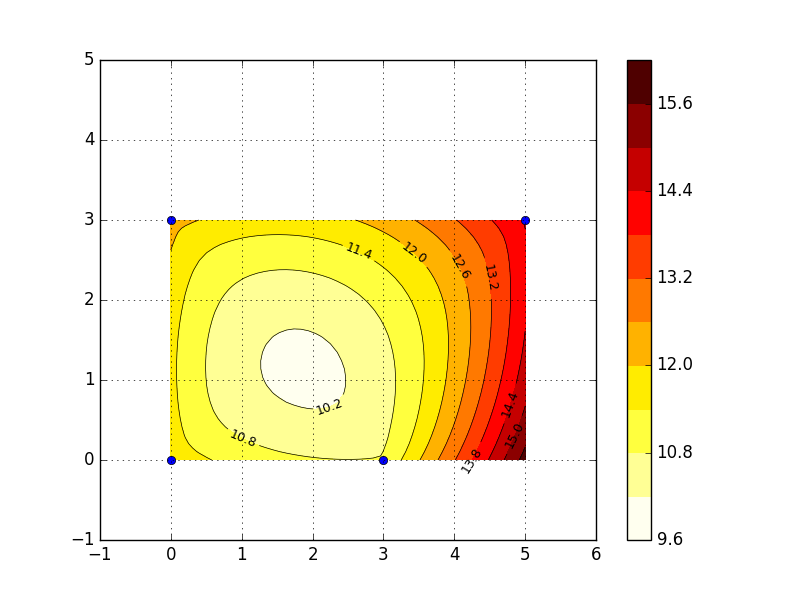
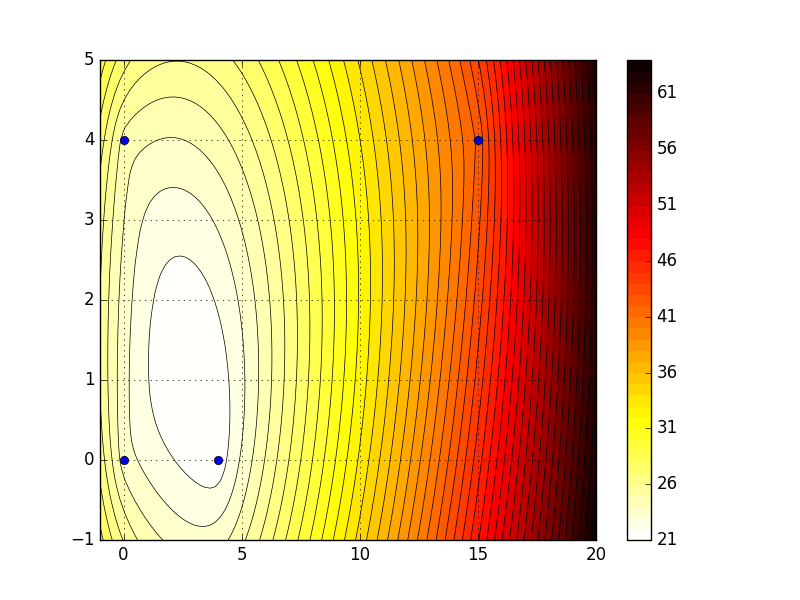
marketing added

diff --git a/comb-algorithms/fermat.py b/comb-algorithms/fermat.py
@@ -2,28 +2,37 @@ import matplotlib.pyplot as plt
 import numpy as np
 from math import hypot
 
-points_arr = [[0, 0], [0, 3], [3, 0], [5, 3]]
+# points_arr = [[2, 3], [2, 5], [3, 2], [3, 4], [4, 8], [8, 2]]
 
 # points_arr = [[-3, 0], [-1, 0], [5, 0], [-8, -9]]
+points_arr = [[0, 0], [0, 4], [4, 0], [15, 4]]
 def dist_s(x, y):
     s = 0
     for p in points_arr:
         s += np.hypot(x - p[0], y - p[1])
     return s
 
+def dist_2(x, y):
+    s = 0
+    for p in points_arr:
+        s += (np.hypot(x - p[0], y - p[1]))
+    return np.tan(s)
 
-n = 50
 
-# xlist = np.linspace(-10, 6, n)
-# ylist = np.linspace(-10, 1, n)
+n = 1000
 
-xlist = np.linspace(0, 5, 50)
-ylist = np.linspace(0, 3, 30)
+xlist = np.linspace(-1, 16, n)
+ylist = np.linspace(-1, 5, n)
+# xlist = np.linspace(-10, 10, n)
+# ylist = np.linspace(-10, 10, n)
+
+# xlist = np.linspace(0, 5, 50)
+# ylist = np.linspace(0, 3, 30)
 
 X, Y = np.meshgrid(xlist, ylist)
 Z = dist_s(X, Y)
 
-cn = 10 # contour accuracy
+cn = 100 # contour accuracy
 
 
 plt.figure()
@@ -31,12 +40,13 @@ plt.grid()
 # plt.xlim([-1, 6])
 # plt.ylim([-1, 5])
 
-plt.xlim([-1, 6])
-plt.ylim([-1, 5])
+# plt.xlim([-1, 6])
+# plt.ylim([-1, 5])
 
 CS = plt.contour(X, Y, Z, cn, linewidths=0.5, colors='k')
-plt.clabel(CS, inline=True, fontsize=9, fmt='%1.1f',)
-CS = plt.contourf(X, Y, Z, cn, cmap=plt.cm.hot_r, vmax=Z.max()*1.05, vmin=Z.min()*0.97) # colors edit
+# plt.clabel(CS, inline=True, fontsize=9, fmt='%1.1f',)
+CS = plt.contourf(X, Y, Z, cn, cmap=plt.cm.hot_r, vmax=Z.max(), vmin=Z.min()) # colors edit
+# CS = plt.contourf(X, Y, Z, cn, cmap=plt.cm.hot_r, vmax=Z.max()*1.05, vmin=Z.min()*0.97) # colors edit
 plt.colorbar()
 # plt.axis('equal')
 

diff --git a/Marketing/marketing-21-Nov-2016.md b/Marketing/marketing-21-Nov-2016.md
@@ -1,0 +1,43 @@
+# Процесс ценообразования
+Основная задача ценовой политики - найти оптимальную цену товара.
+
+1. Цели ценообразования
+  - позиционирование товара на рынке
+  - обеспечение выживаемости
+  - максимизация текущей прибыли
+  - завоевание лидерства по показателям доли рынка. В качестве целевого параметра задается определенная доля рынка. Фирмы верят, что компания, которой принадлежит самая большая доля рынка, будет иметь самые низкие издержки и самую высокую долговременную прибыль. Эта компания идет на максимально возможное снижение цен.
+  - завоевание лидерства по показателям качества товара.
+
+2. Определение спроса на товар
+3. Оценка издержек
+постоянные, переменные
+4. Анализ цен конкурентов
+5. Выбор метода ценообразования
+  - средние издержки + планируемая прибыль
+  - на основе безубыточности
+  - на основе ощущаемой ценности/полезности товара
+  - на основе цен конкурентов
+
+# Cтратегии ценообразования
+1. стратегия снятия сливок (очень высокие сливки). Нужно юзать
+  - когда сущ. высокий спрос на товар.
+  - Если фирма престижная, известная.
+  - Высокая цена соответствует высокому качеству
+2. Установление низких цен на товар. Юзать, если
+  - низкая цена расширяет рынок сбыта
+  - при росте объемов производства издержки снижаются
+  - если низкая цена отпугивает конкурентов
+3. Ценообразование в рамках товарного ассортимента. Восстанавливаются разные дифференцируемые цены на разные модели
+4. Ценообразование по географич. признаку. Предполагает разные цены для разных частей страны.
+5. Ценообразование со скидками и зачетами. Скидки могут устанавливаться
+  - за объем покупаемого товара
+  - за платеж наличными
+  - сезонные скидки
+
+# Стратегии дискриминационных цен
+Дискр. ценообразование - это продажа товаров/услуг по разным ценам вне зависимости от издержек. Осуществляется в разных формах.
+
+1. В зав-ти от сегмента покупателя (школьникам, пенсионерам дешевле)
+2. Дискр. ценообразование с учетом места нахождения (в кино цена зависит от кресла / ряда)
+3. С учетом времени суток (днем дороже чем ночью интернет / свет)
+4. По психологическому принципу. Основано на том, что при определении цены учитывается не только экономические, но и психологические факторы.

diff --git a/README.md b/README.md
@@ -5,3 +5,4 @@
 ### 1 семестр
 1. [Мат. моделирование - Флегель Александр Валерьевич](Math-Modeling)
 2. [Комбинаторные алгоритмы - Родин Владимир Александрович](comb-algorithms)
+3. [Маркетинг - Елена Павлова](Markdown)
